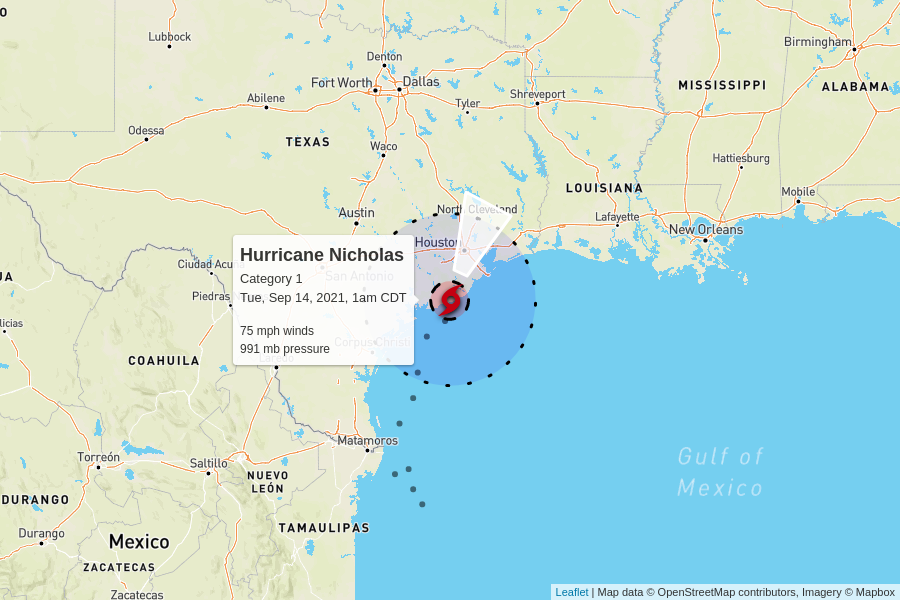
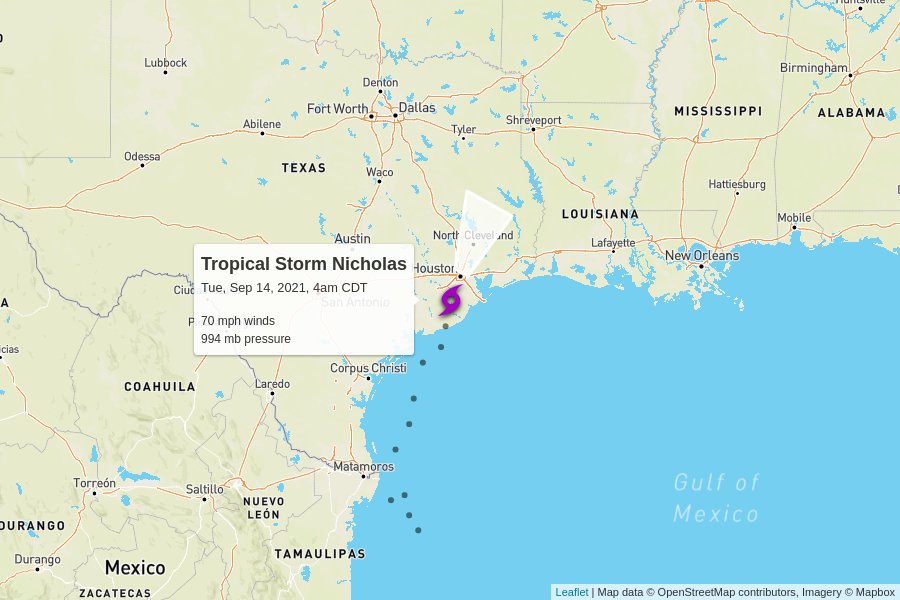
automatic update

diff --git a/docs/index.html b/docs/index.html
@@ -97,10 +97,10 @@
 
     <table>
       <tr>
-        <td colspan="6" class="storm category-1" >
+        <td colspan="6" class="storm category-0" >
           <h2>
-            Hurricane Nicholas - Category 1
-            <p class="updated">last updated <span data-time>2021-09-14T06:00:00.000Z</span></p>
+            Tropical Storm Nicholas
+            <p class="updated">last updated <span data-time>2021-09-14T09:00:00.000Z</span></p>
           </h2>
         </td>
       </tr>
@@ -115,10 +115,10 @@
       </tr>
       <tr>
         <td class="spacer"></td>
-        <td>75 mph</td>
-        <td>991 mb</td>
+        <td>70 mph</td>
+        <td>994 mb</td>
         <td>
-          10 mph to the north-northeast
+          9 mph to the north-northeast
           <br/>
           <span style="display: inline-block; font-size: 1.5em; transform: rotate(25deg);">↑</span>
         </td>
